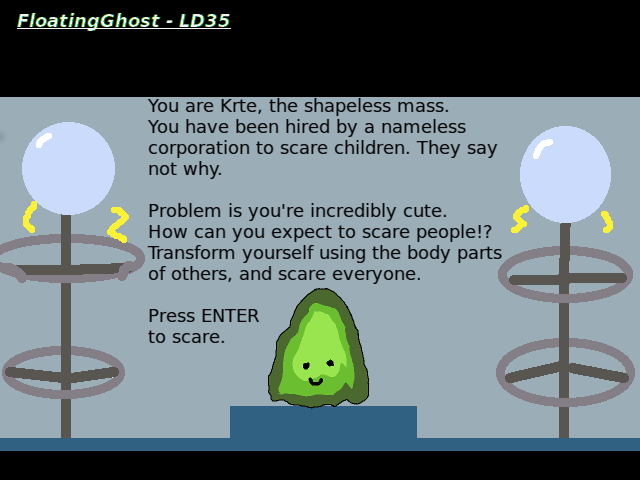
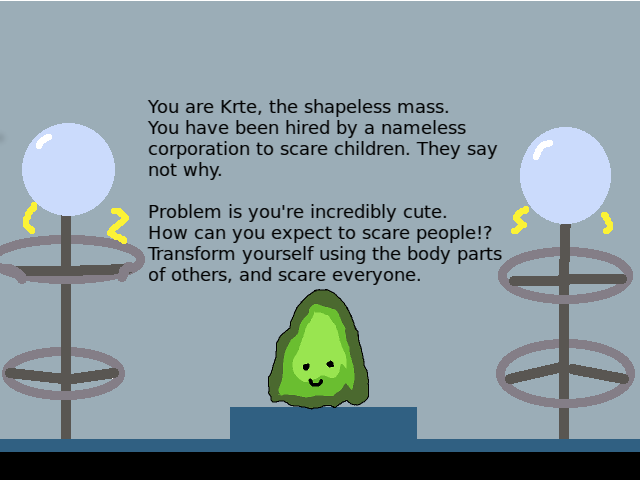
Added images, wrapping up for day 1

diff --git a/js/states/monstercreator.js b/js/states/monstercreator.js
@@ -13,6 +13,7 @@ MonsterCreator.prototype = {
     game.load.image("scare_button", "res/img/buttons/scareflower.png");
     game.load.spritesheet("lightning", "res/img/fx/Lightning.png",60,170);
     game.load.image("backing", "res/img/buttons/backing.png");  
+    game.load.audio("spawn", "res/snd/item_spawn.wav");
     for (i in monster_data) {
       console.log("Loading sprites for " + i); 
       i = monster_data[i];
@@ -40,12 +41,12 @@ MonsterCreator.prototype = {
     this.base = game.add.sprite(200, 150, "monster_base");
     game.physics.arcade.enable(this.base)
     this.parts = game.add.group();
+    this.spawnSound = game.add.audio("spawn");
     this.lastDragged = null;
     game.add.button(game.world.centerX-50, 430, "scare_button", this.saveMonster, this,2,1,0);
     var x = 100;
     var y = 10;
     for (i in monster_data) {
-      console.log("Adding " + i + " to canvas");
       i = monster_data[i];
       for (var j = 0; j < i.length; j++) {
         obj = i[j];
@@ -55,9 +56,33 @@ MonsterCreator.prototype = {
         p.width=32;
         p.height=32;
         x += 50;
-        
+        new Phasetips(game, {
+          targetObject: p,
+          context: this.getDesc(p.magicmushrooms),
+          strokeColor: 0xff0000
+        });  
       }
     }
+  },
+
+  getDesc: function(obj) {
+    var text = obj["name"] + "\n";
+    text += obj["desc"];
+    /*try{
+      for (i in stat_names) {
+        var x  = obj.stats[stat_names[i]];
+        switch (x) {
+          case (x > 10):
+            text += "\nVery "+stat_names[i]; 
+            break;  
+          default:
+            break;
+        }
+      }
+    } catch (e) {
+
+    }*/
+    return text;
   },
 
   spawn: function(obj) {
@@ -69,7 +94,8 @@ MonsterCreator.prototype = {
 
   actuallySpawnThisTime: function() {
     var obj = this.mehmetmyson;
-    console.log("Spawning "+obj.start) 
+    console.log("Spawning "+obj.start);
+    this.spawnSound.play();
     this.createpart(500, 430, obj["key"], this.parts, obj.magicmushrooms["stats"]);
   },
 

diff --git a/js/states/introscreen.js b/js/states/introscreen.js
@@ -7,12 +7,14 @@ IntroScreen.prototype = {
 
   preload: function() {
     game.load.image("bg", "res/img/bg/introbg.png");
+    game.load.image("go", "res/img/buttons/SkipIntro.png");
   },
 
   create: function() {
     game.add.sprite(0,0,"bg");
     var start = game.input.keyboard.addKey(Phaser.KeyCode.ENTER);
     start.onDown.add(this.startgame, this)
+    game.add.button(game.world.centerX-190, 375, "go", this.startgame, 2, 1, 0);
   },
 
   startgame: function() {

diff --git a/js/states/menu.js b/js/states/menu.js
@@ -15,7 +15,7 @@ Menu.prototype = {
 
   create: function() {
     game.add.sprite(0,0,"title_bg");
-    game.add.button(200, 200, "start_button", this.start_game, this, 2, 1, 0);
+    game.add.button(450, 350, "start_button", this.start_game, this, 2, 1, 0);
   },
 
   update: function() {

diff --git a/index.html b/index.html
@@ -4,7 +4,7 @@
   </head>
 
   <body>
-    <h1>Some Loodoom Daray or something 35</h1>
+    <h1>Yours, Monster</h1>
 
   <div id="game"></div>
   <div id="controls">
